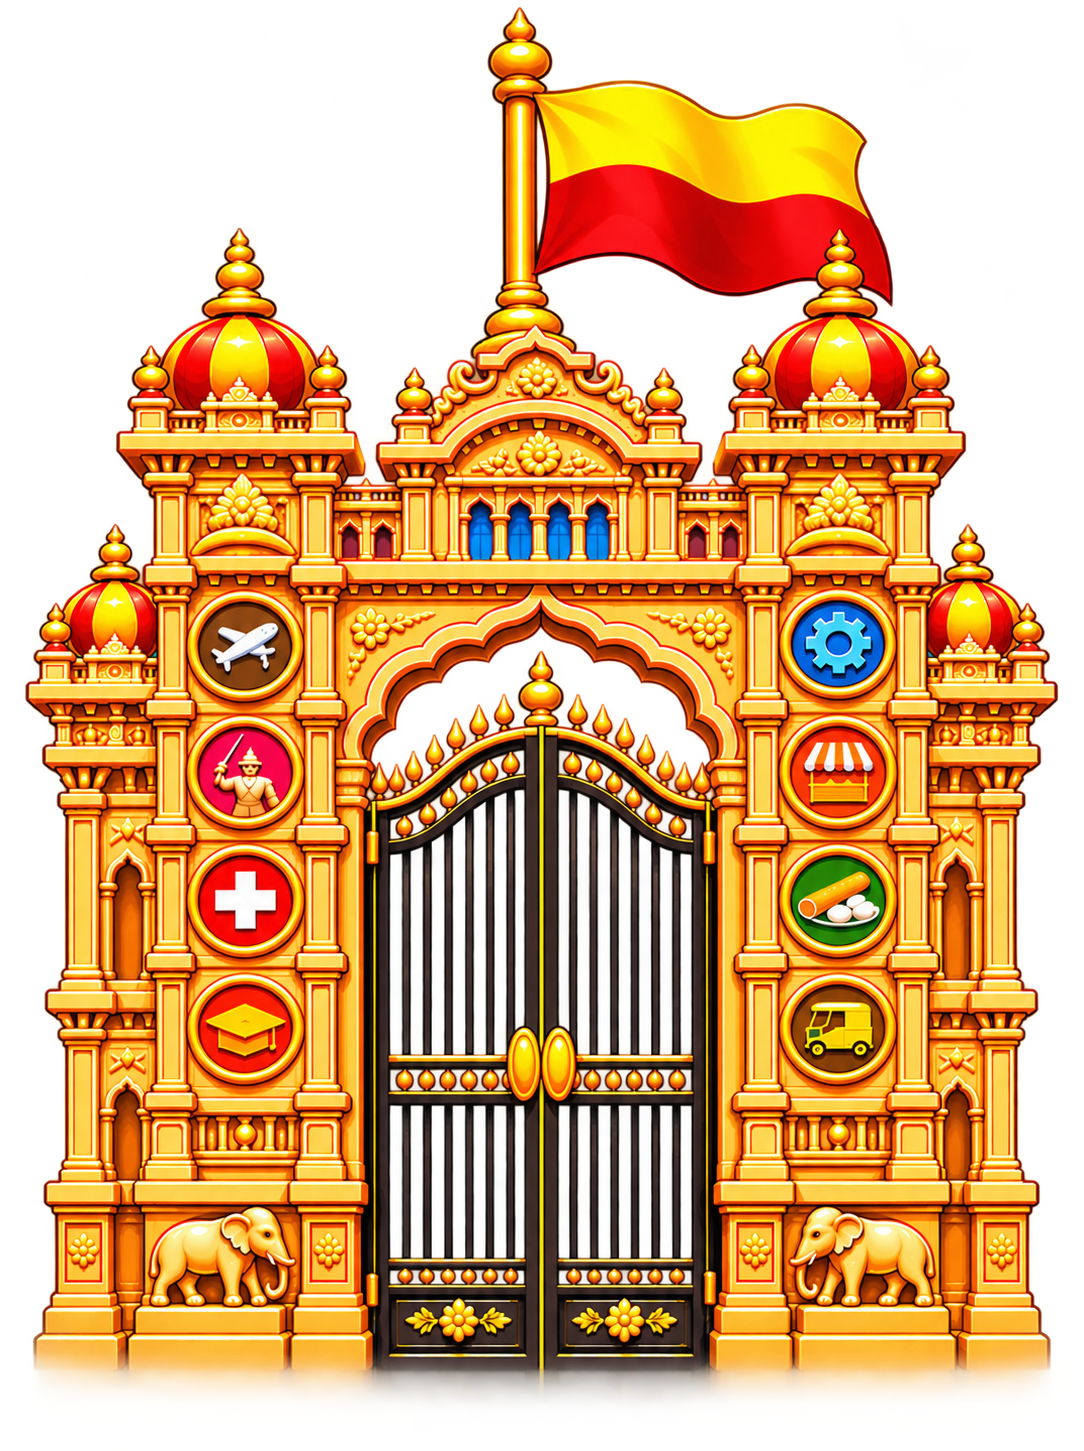
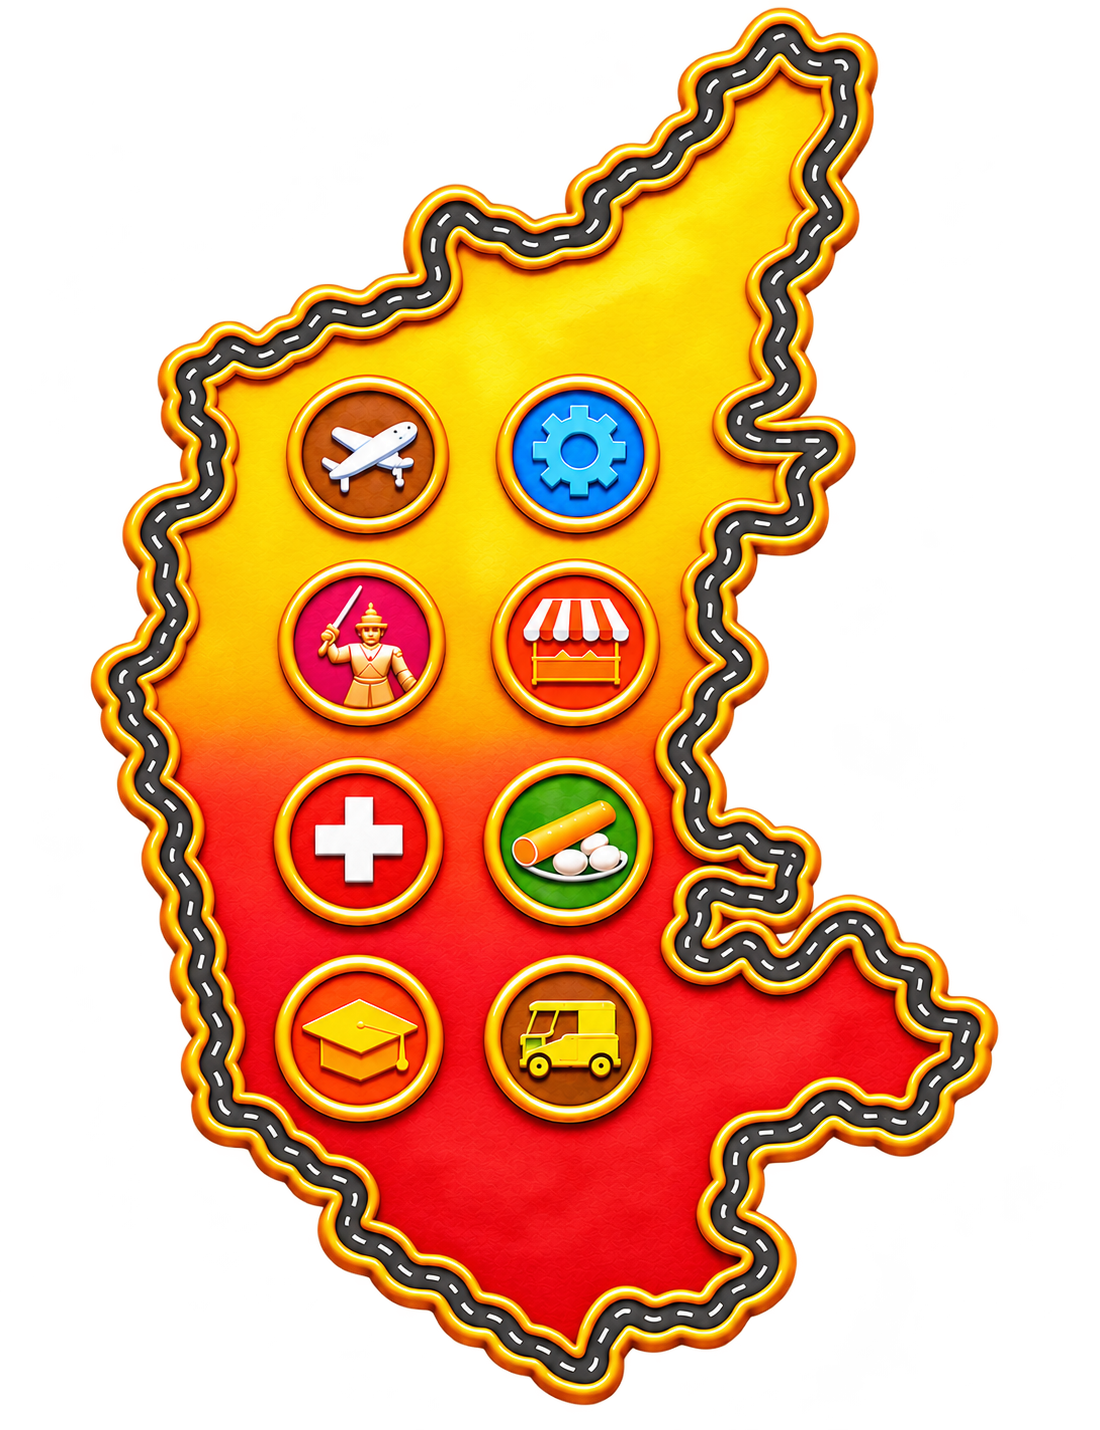
Implemented setup and storage logic, made styling changes -- Work on intro.dart next

diff --git a/lib/screens/app_shell.dart b/lib/screens/app_shell.dart
@@ -1118,16 +1118,14 @@ class _AppShellState extends State<AppShell> {
               spacing: 10,
               runSpacing: 6,
               children: [
-                if (_foreground != _Foreground.languageSelect &&
-                    _foreground != _Foreground.nameEntry)
-                  _roundControl(
-                    icon: Icons.language,
-                    tooltip: l10n.chooseLanguage,
-                    onPressed: () {
-                      _handleUserInteraction();
-                      unawaited(_showLanguagePicker());
-                    },
-                  ),
+                _roundControl(
+                  icon: Icons.language,
+                  tooltip: l10n.chooseLanguage,
+                  onPressed: () {
+                    _handleUserInteraction();
+                    unawaited(_showLanguagePicker());
+                  },
+                ),
                 _roundControl(
                   icon: _muted ? Icons.volume_off : Icons.volume_up,
                   tooltip: _muted ? l10n.unmuteAudio : l10n.muteAudio,
@@ -1300,14 +1298,6 @@ class _AppShellState extends State<AppShell> {
                   ? const SizedBox.shrink()
                   : _foregroundWidget(),
             ),
-            if (_foreground != _Foreground.splash) ...[
-              _screenControls(),
-              if (_foreground != _Foreground.home &&
-                  _foreground != _Foreground.languageSelect &&
-                  _foreground != _Foreground.nameEntry &&
-                  _foreground != _Foreground.intro)
-                _homeNavigationButton(),
-            ],
             IgnorePointer(
               child: AnimatedOpacity(
                 opacity: _splashCoverVisible ? 1 : 0,
@@ -1326,6 +1316,14 @@ class _AppShellState extends State<AppShell> {
                 child: const ColoredBox(color: Colors.black),
               ),
             ),
+            if (_foreground != _Foreground.splash) ...[
+              _screenControls(),
+              if (_foreground != _Foreground.home &&
+                  _foreground != _Foreground.languageSelect &&
+                  _foreground != _Foreground.nameEntry &&
+                  _foreground != _Foreground.intro)
+                _homeNavigationButton(),
+            ],
           ],
         ),
       ),

diff --git a/lib/screens/home.dart b/lib/screens/home.dart
@@ -158,8 +158,8 @@ class _HomeLeftPanelState extends State<HomeLeftPanel>
             ),
           ),
           if (widget.showPlayButton)
-            Positioned(
-              top: 250,
+            Align(
+              alignment: Alignment.center,
               child: AnimatedScale(
                 scale: _playHovered ? 1.03 : 1,
                 duration: const Duration(milliseconds: 160),
